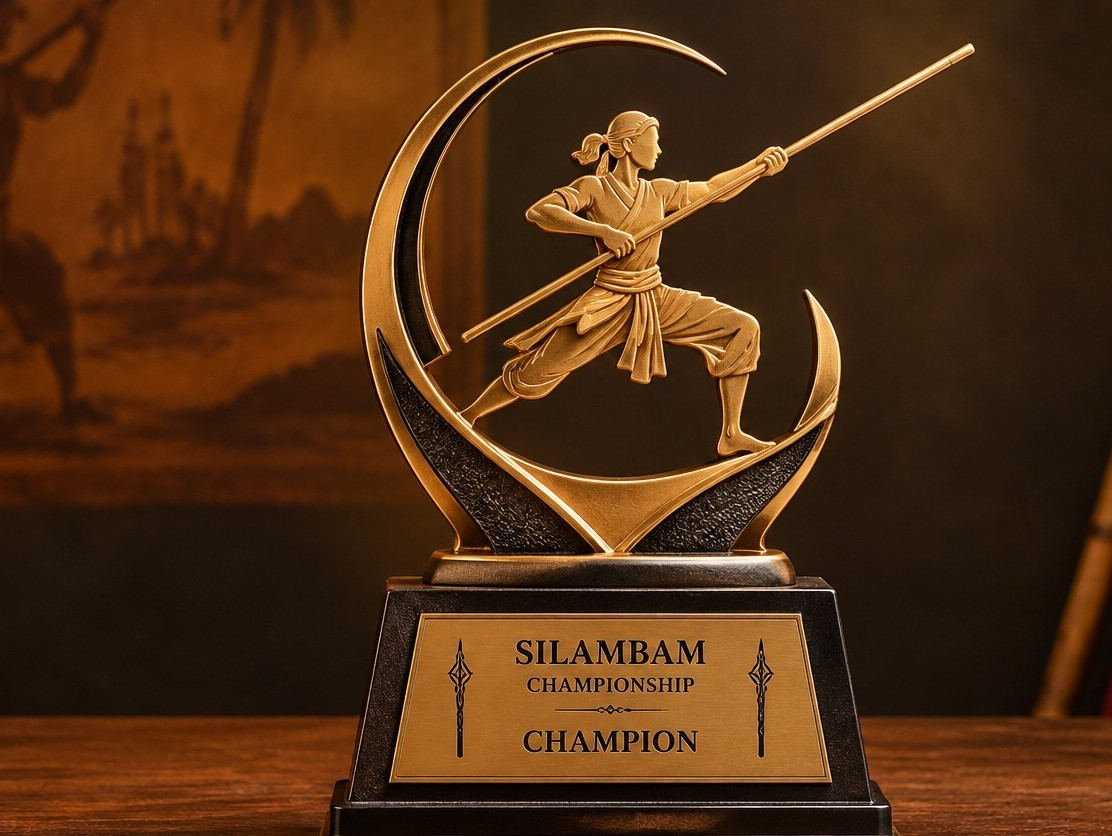
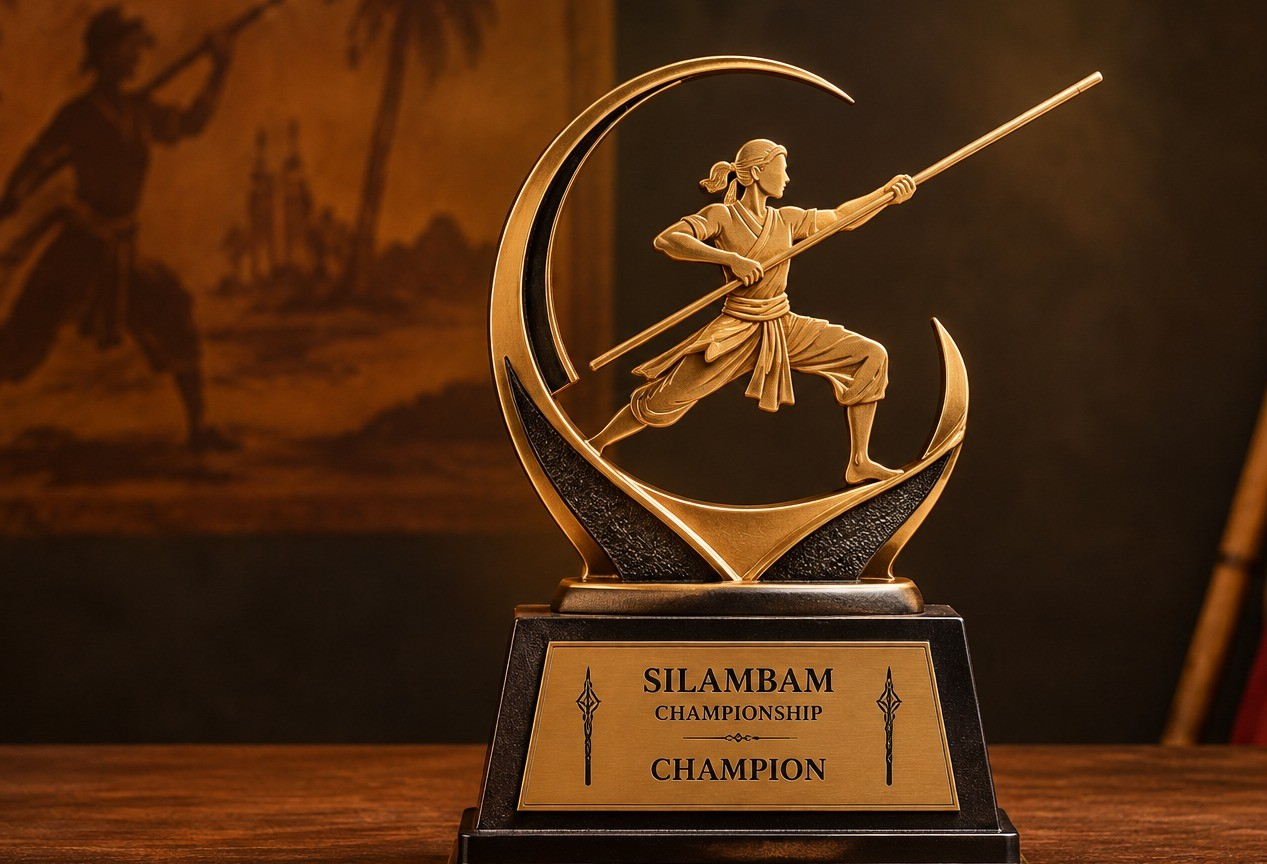
Update trophy achievement image

diff --git a/app/page.tsx b/app/page.tsx
@@ -961,7 +961,7 @@ function Achievements() {
       <div
         //className="absolute inset-0 bg-cover bg-[70%_center] lg:bg-right"
         className="achievement-bg absolute inset-0 bg-cover lg:bg-right"
-        style={{ backgroundImage: "url('/win-1.jpg')" }}
+        style={{ backgroundImage: "url('/win-1.png')" }}
       />
 
       {/* Extra darkening on phones so the text stays readable */}
